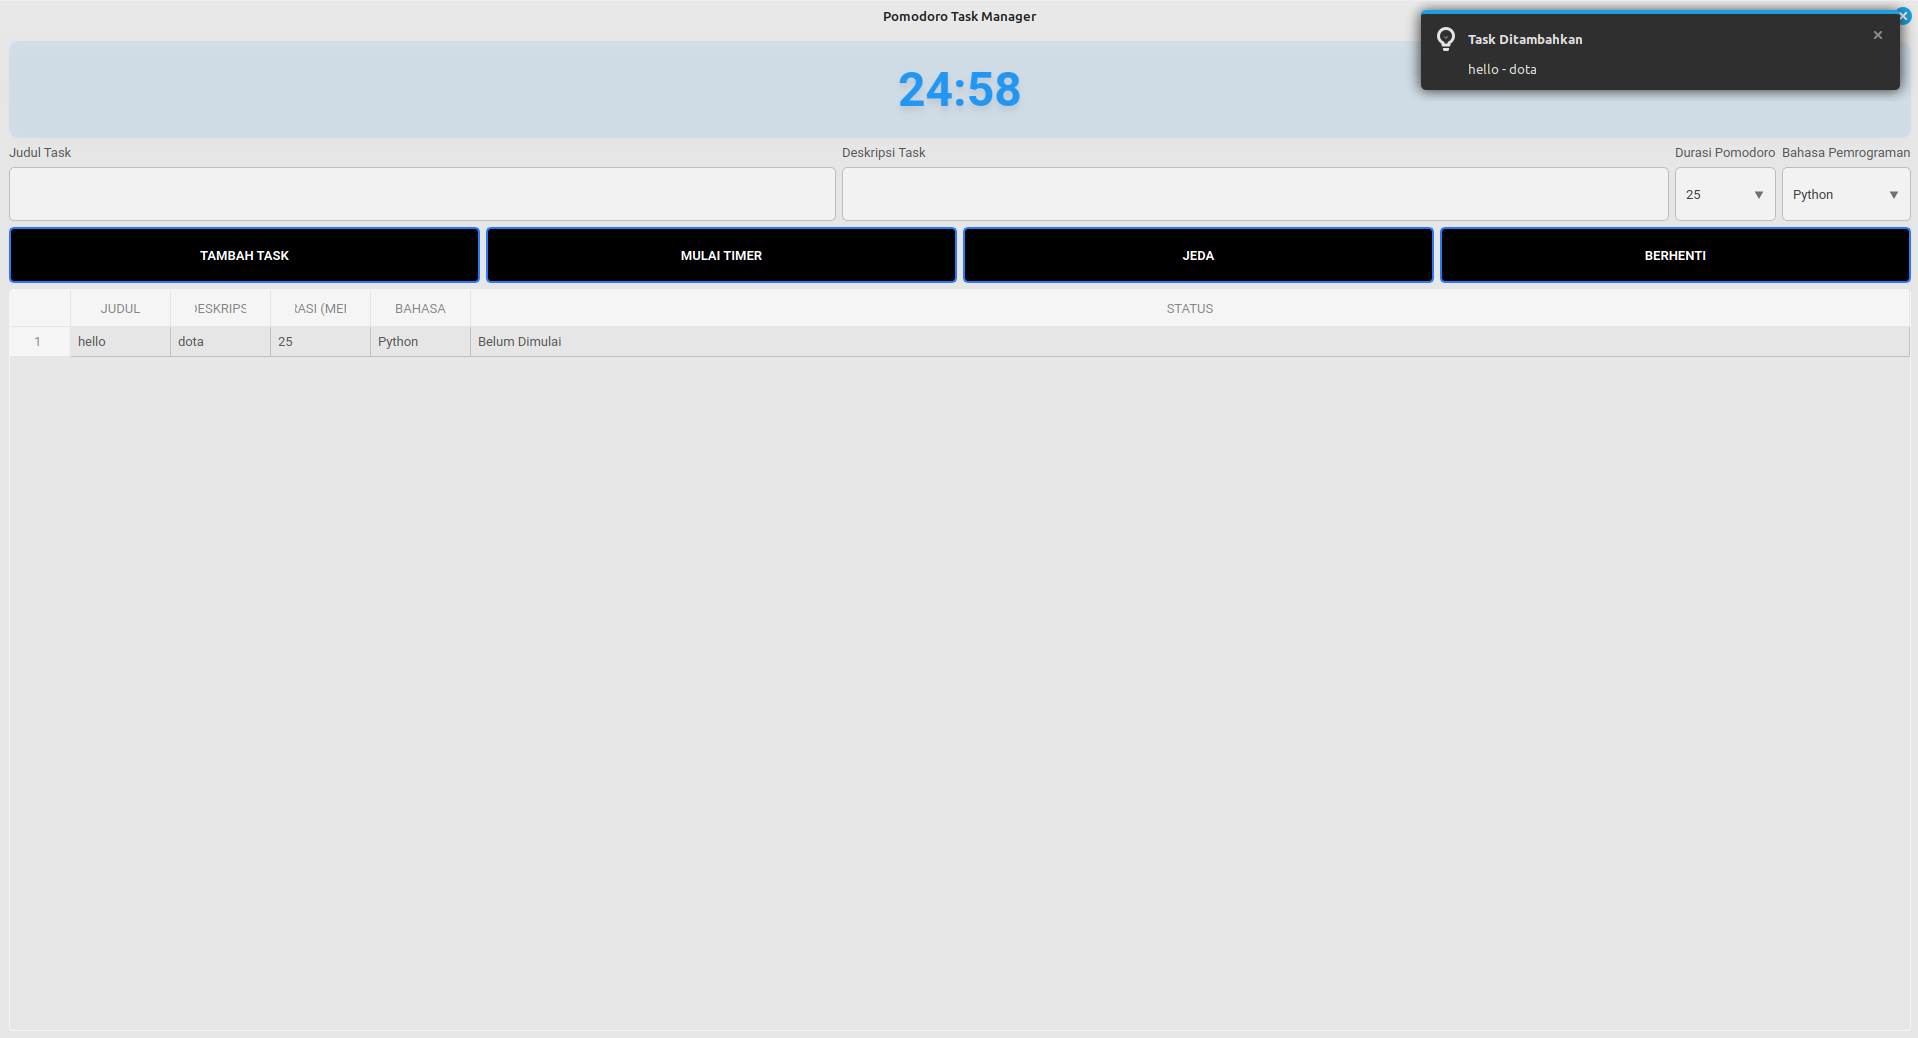
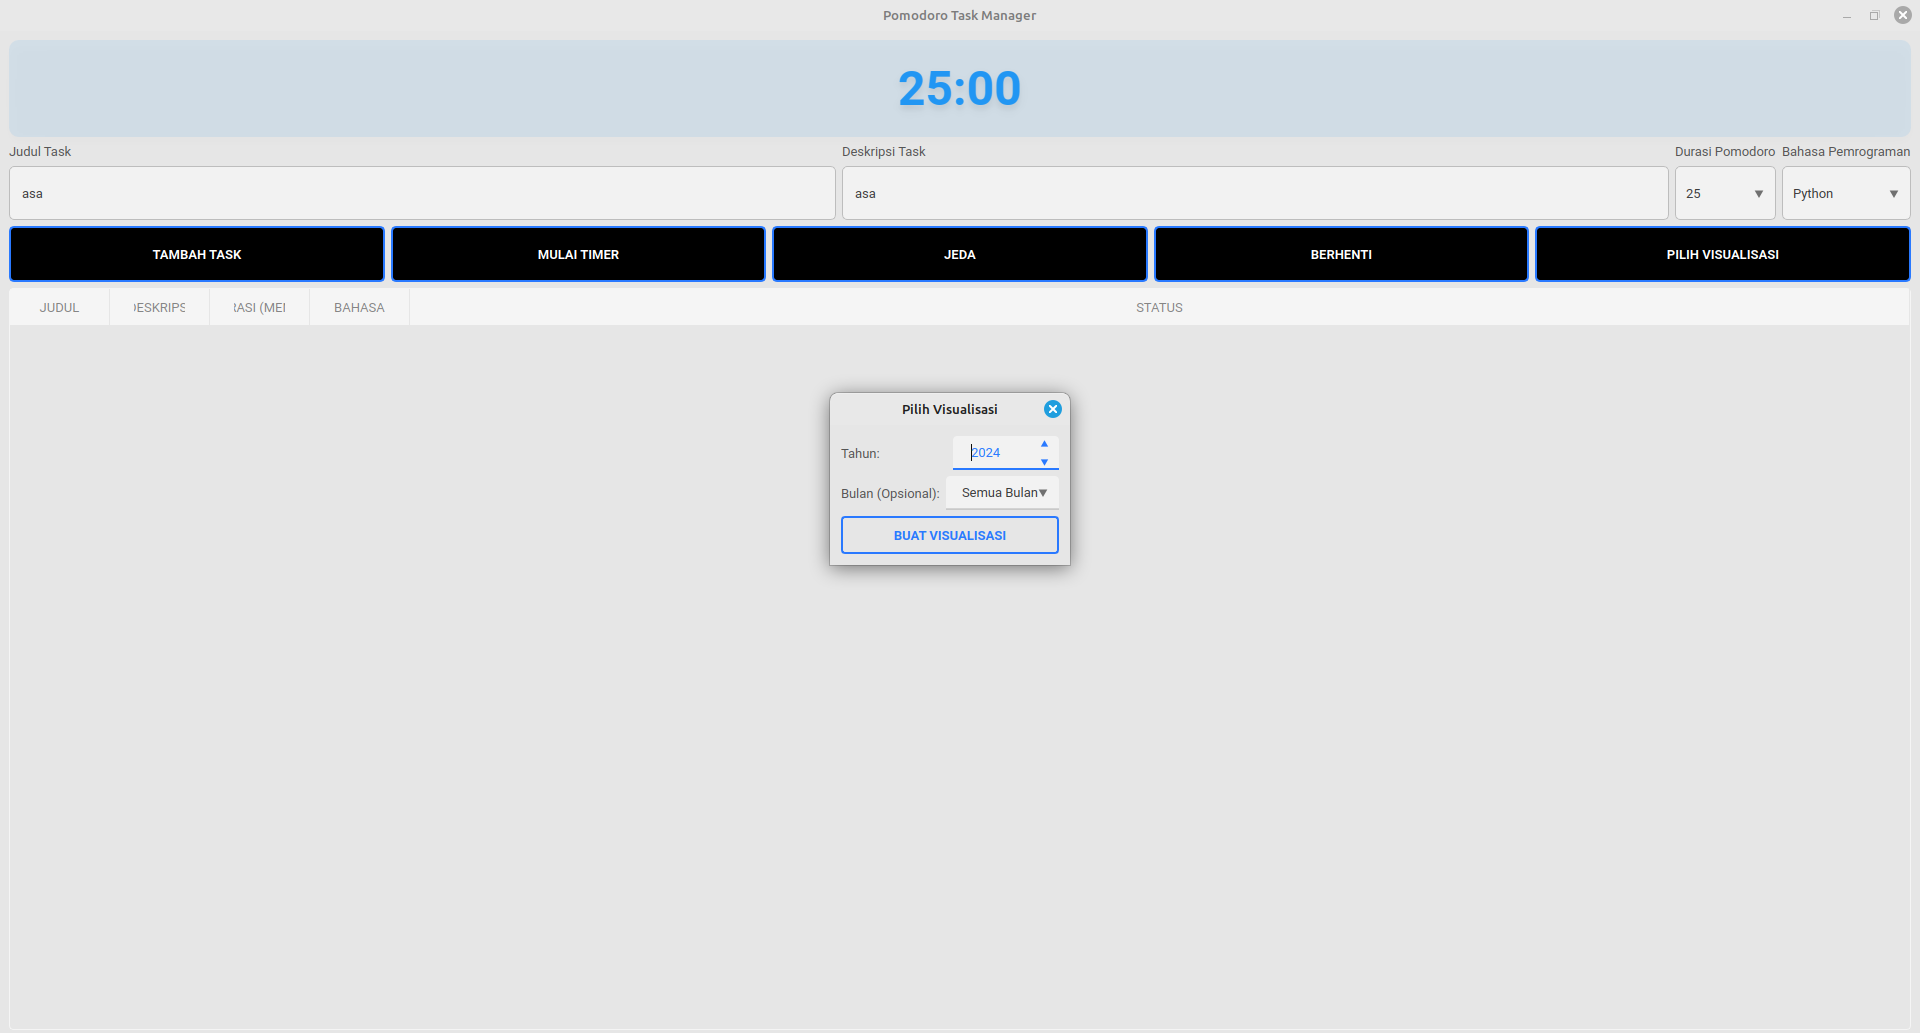
Adding #1

diff --git a/README.md b/README.md
@@ -1,7 +1,19 @@
 ### Pomodoro Task QT
 
-![example-test](./images/image.png)
 
 
-## Feature yang ditambahkan
--   Visualiasi dashboard Tasks.csv untuk mengetahui selama sebulan ngapain aja dan apa yang perlu diimprove dari sisi debug, kecepatan dalam berfikir dan lain lain
+Pomodoro Task QT adalah aplikasi Pomodoro Timer dengan fitur Tasks List.
+
+
+
+## Feature List
+-   Tasks List dan Pomodoro Timer
+-   Visualiasi Perbulan
+-   Visualiasi Perminggu
+
+
+## Image
+
+![Pomodoro](./images/image.png)
+![Perminggu](./images/Visualisasi_Tasks_2024_December.png)
+![Perbulan](./images/Visualisasi_Tasks_2024.png)
